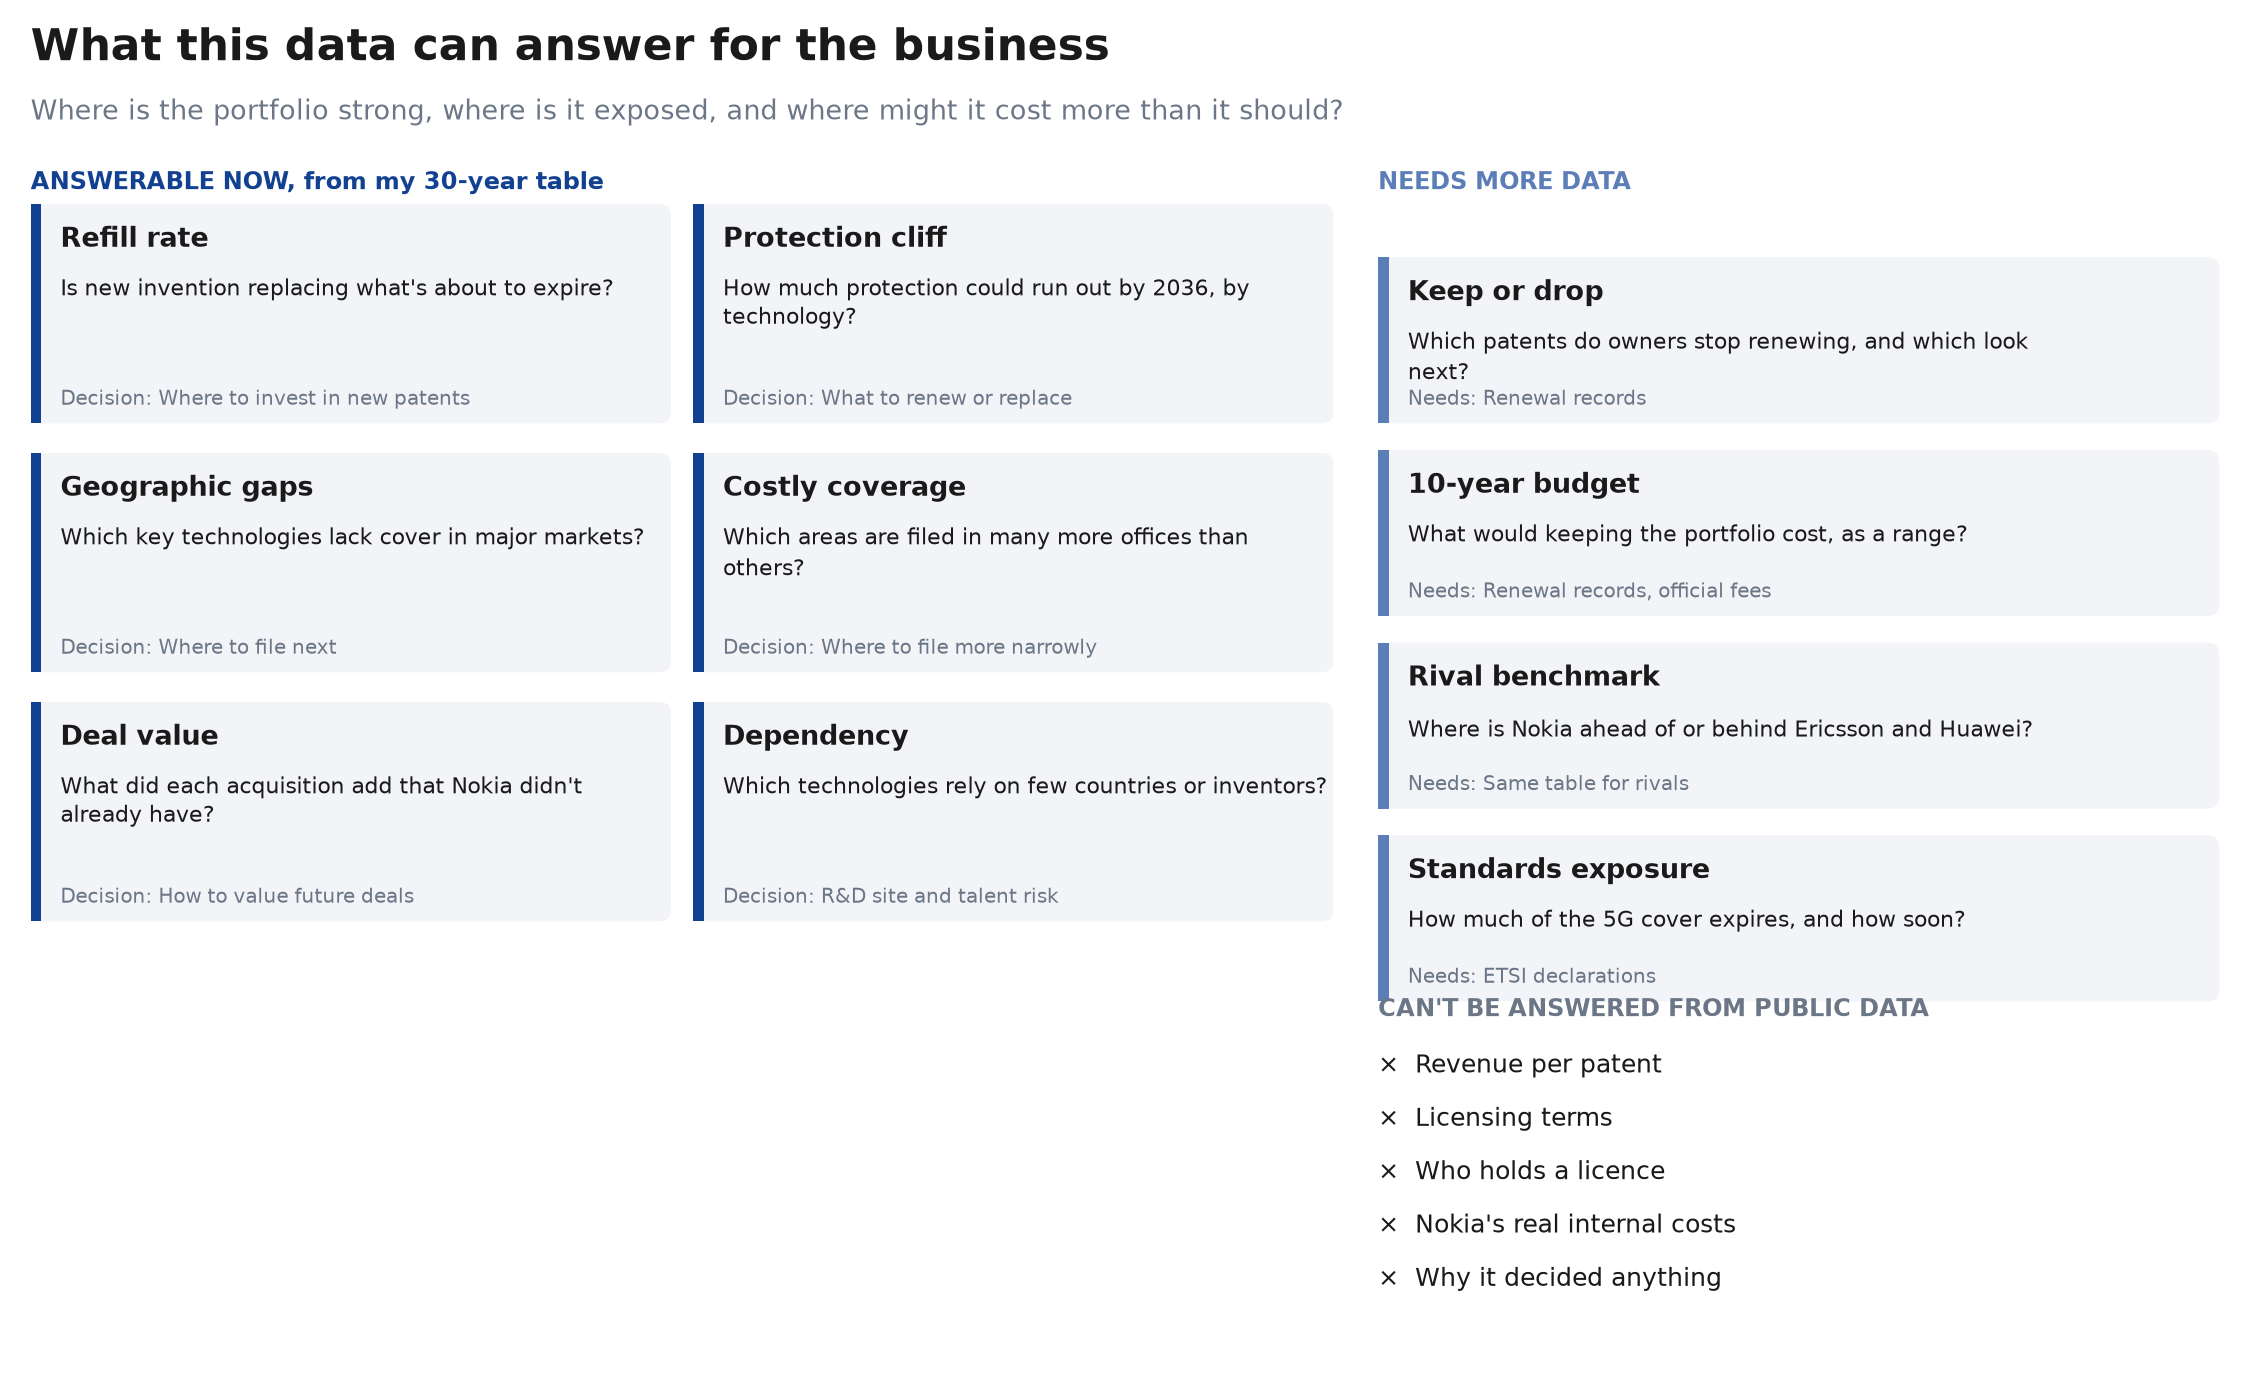
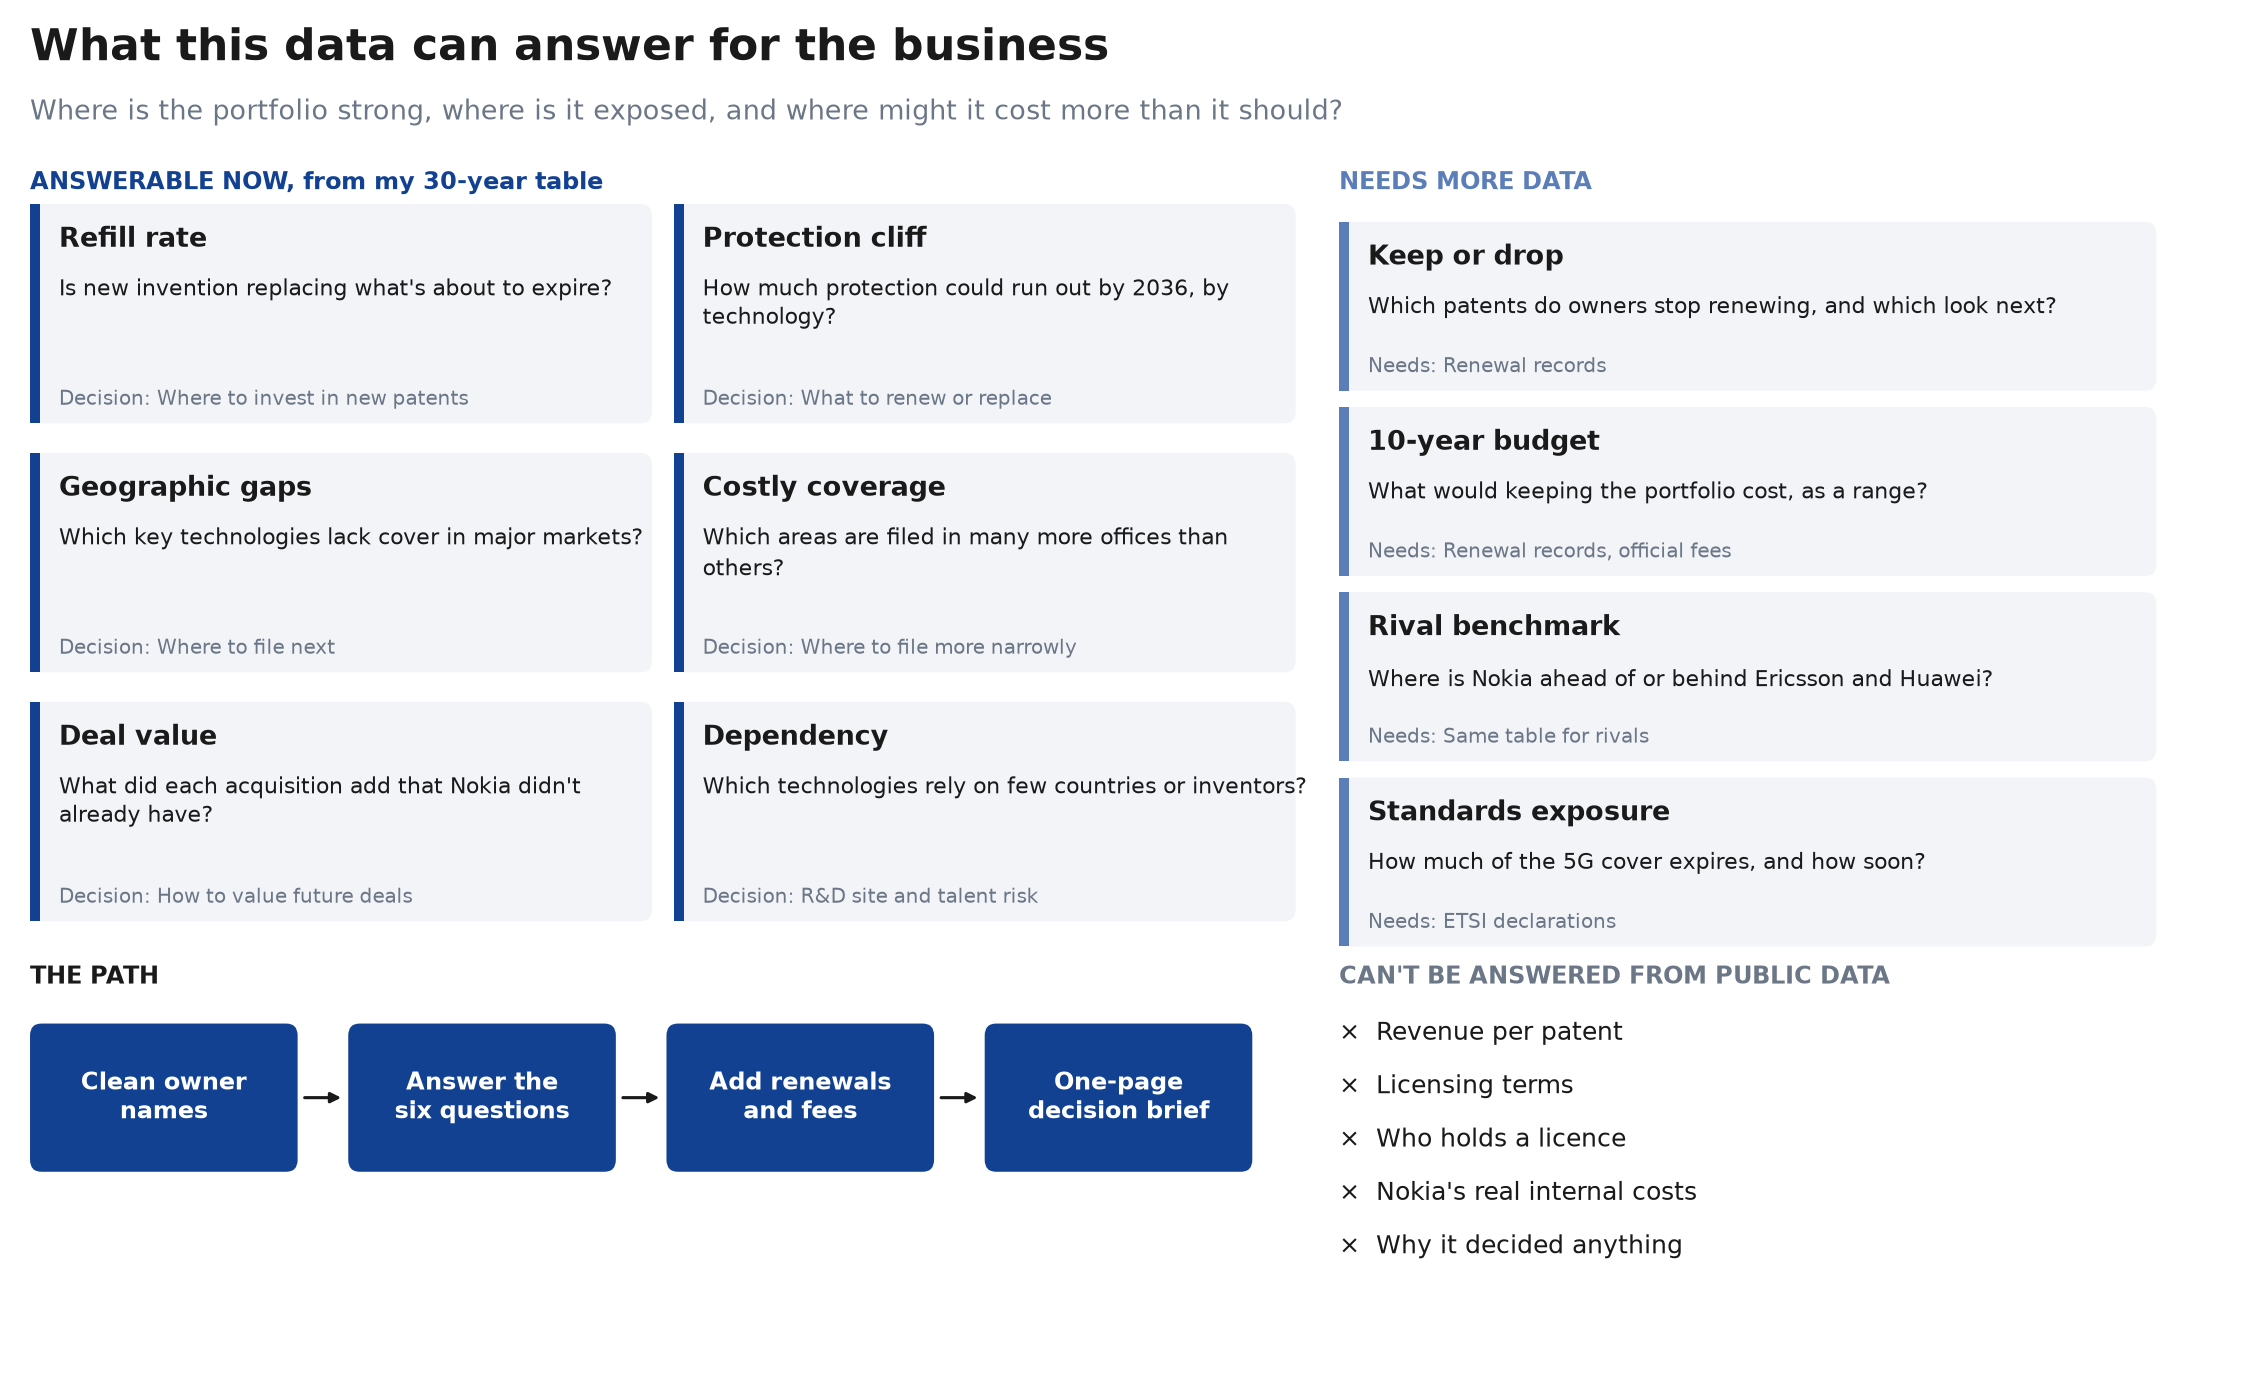
Fix question map layout and add the path

diff --git a/src/make_question_map.py b/src/make_question_map.py
@@ -25,11 +25,11 @@ MORE = [
 NEVER = ["Revenue per patent", "Licensing terms", "Who holds a licence", "Nokia's real internal costs", "Why it decided anything"]
 
 
-def card(ax, x, y, w, h, title, body, foot, color):
+def card(ax, x, y, w, h, title, body, foot, color, width=54):
     ax.add_patch(FancyBboxPatch((x, y), w, h, boxstyle="round,pad=0,rounding_size=0.08", fc=CARD, ec="none"))
     ax.add_patch(FancyBboxPatch((x, y), .07, h, boxstyle="square,pad=0", fc=color, ec="none"))
     ax.text(x + .2, y + h - .24, title, fontsize=13, fontweight="bold", color=INK, va="center")
-    ax.text(x + .2, y + h - .48, "\n".join(wrap(body, 54)), fontsize=10.5, color=INK, va="top", linespacing=1.3)
+    ax.text(x + .2, y + h - .48, "\n".join(wrap(body, width)), fontsize=10.5, color=INK, va="top", linespacing=1.3)
     ax.text(x + .2, y + .16, foot, fontsize=9.5, color=MUTED, va="center")
 
 
@@ -44,10 +44,18 @@ for i, (t, b, f) in enumerate(NOW):
     card(ax, .15 + (i % 2) * 4.45, 6.5 - (i // 2) * 1.68, 4.3, 1.48, t, b, "Decision: " + f, ACCENT)
 ax.text(9.2, 8.08, "NEEDS MORE DATA", fontsize=11.5, fontweight="bold", color=MID)
 for i, (t, b, f) in enumerate(MORE):
-    card(ax, 9.2, 6.5 - i * 1.3, 5.65, 1.12, t, b, "Needs: " + f, MID)
-ax.text(9.2, 2.5, "CAN'T BE ANSWERED FROM PUBLIC DATA", fontsize=11.5, fontweight="bold", color=MUTED)
+    card(ax, 9.2, 6.72 - i * 1.25, 5.65, 1.14, t, b, "Needs: " + f, MID, width=74)
+ax.text(9.2, 2.72, "CAN'T BE ANSWERED FROM PUBLIC DATA", fontsize=11.5, fontweight="bold", color=MUTED)
 for i, t in enumerate(NEVER):
-    ax.text(9.2, 2.12 - i * .36, "×  " + t, fontsize=12, color=INK)
+    ax.text(9.2, 2.34 - i * .36, "×  " + t, fontsize=12, color=INK)
+ax.text(.15, 2.72, "THE PATH", fontsize=11.5, fontweight="bold", color=INK)
+STEPS = ["Clean owner\nnames", "Answer the\nsix questions", "Add renewals\nand fees", "One-page\ndecision brief"]
+for i, t in enumerate(STEPS):
+    x = .15 + i * 2.2
+    ax.add_patch(FancyBboxPatch((x, 1.45), 1.85, 1.0, boxstyle="round,pad=0,rounding_size=0.08", fc=ACCENT, ec="none"))
+    ax.text(x + .925, 1.95, t, ha="center", va="center", color="white", fontsize=11.5, fontweight="bold")
+    if i < 3:
+        ax.annotate("", xy=(x + 2.18, 1.95), xytext=(x + 1.87, 1.95), arrowprops=dict(arrowstyle="-|>", color=INK, lw=1.5))
 fig.tight_layout(pad=.4)
 fig.savefig(IMG / "question_map.png", dpi=150)
 
